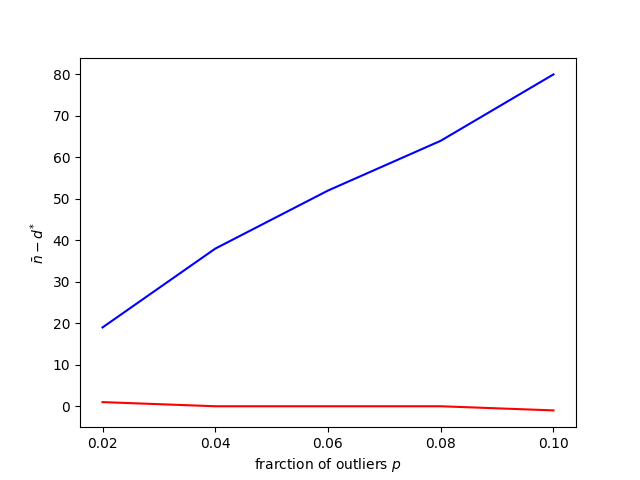
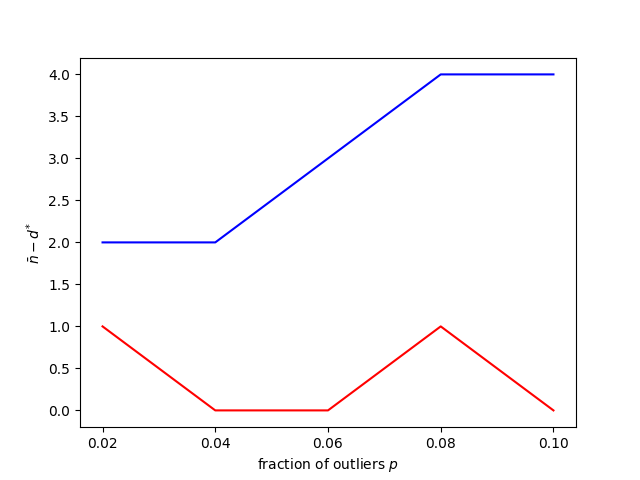
fixed a bug in synthetic_outlier_fraction.py

diff --git a/synthetic_outlier_fraction.py b/synthetic_outlier_fraction.py
@@ -41,7 +41,7 @@ for i in range(len(res_outlier_indices_list)):
     out_dis_sq=squareform(out_dis) # squared matrix form of D
     subspace_dim, outlier_indices = find_subspace_dim(out_dis_sq, 30, df_prev.shape[1])
     dim_pred_diff.append(subspace_dim - true_dim)
-    dim_raw_diff.append(subspace_dim + int((subspace_dim * len(outlier_indices)/df_prev.shape[1]) - true_dim))
+    dim_raw_diff.append(subspace_dim + int((subspace_dim * len(outlier_indices)/df_prev.shape[0]) - true_dim))
     print("subspace_dim is:", subspace_dim)
 
 
